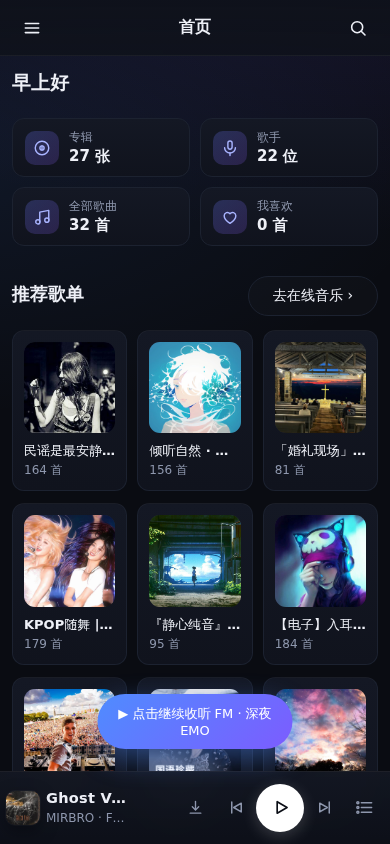
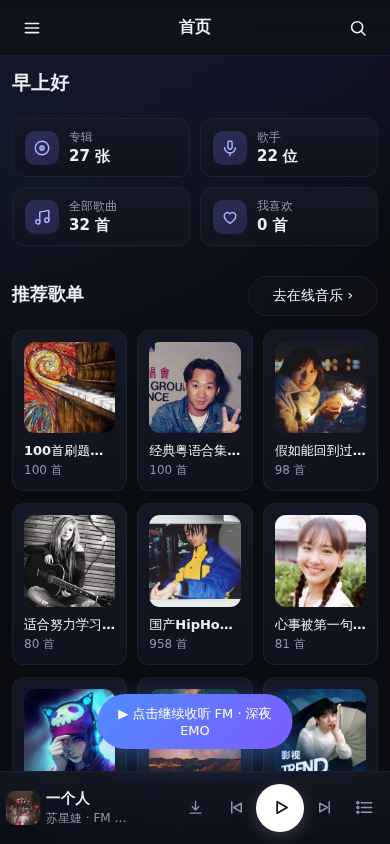
fix(ui): FM 频道卡去掉头像，改纯文字
主人 2026-09-15 反馈「各频道头像是空白的」。取证结论：不是图片代理也不是 CORS
的锅——上游 feed/mode 给的 pic 本身就是空白图。直连上游与经 /web/media/pic 代理
都是 200 + image/jpeg + 约 2.1KB；抽 5 个频道解码后均为 300×300、最暗像素 253/255
（整图近纯白）。原 PNG 带透明通道，被上游 `~tplv-…resize:300:300.jpg` 这条图片
处理参数压成了白底，落到深色卡片上就是一块白方块。

- ui/app/assets/app.js：fmCard 不再渲染 .fm-ic 头像，随之删除 FM_ICON 常量；
  在函数头注释里留档取证结论（含「不是代理挂了」这一条），避免以后有人觉得
  卡片太素又把 pic 加回来。
- ui/app/assets/app.css：删掉 .fm-ic / .fm-ic img / .fm-ic svg 三条规则；补
  .fm-card.on .fm-nm { padding-right: 54px }——「播放中」角标绝对定位在右上角，
  频道名从「图标下方第二行」变成第一行后要给它让位。实测 320px 下标题内容宽
  65px、文字右缘 52px < 角标左缘 100px，最长频道名「Chill 放松」仍在同一行。
- tools/e2e-fm.py：补一条防回退断言「频道卡为纯文字（不含头像）」，
  谁再把头像加回来测试会报红。

验证：tools/e2e-fm.py 46 通过 / 0 失败（原 45 条 + 新增 1 条）。

diff --git a/ui/app/assets/app.js b/ui/app/assets/app.js
@@ -2818,7 +2818,6 @@ kuwo.cn/playlist_detail/280301309</pre>
   // ---------------- FM 电台（汽水「听歌模式」→ 自动续播频道） ----------------
   // 频道来自汽水 /luna/pc/feed/mode（45 个听歌模式，服务端实时拉取并缓存 1h）；
   // 每个频道的曲目由服务端按「频道名 + 配方词」从汽水歌单/搜索合成，仅保留免登录可播的免费全曲。
-  const FM_ICON = '<svg viewBox="0 0 24 24"><circle cx="12" cy="12" r="2.4"/><path d="M8.1 8.1a5.5 5.5 0 0 0 0 7.8M15.9 8.1a5.5 5.5 0 0 1 0 7.8"/><path d="M5.2 5.2a9.6 9.6 0 0 0 0 13.6M18.8 5.2a9.6 9.6 0 0 1 0 13.6"/></svg>'
   let fmChannelsCache = []
 
   const fmAutoOn = () => localStorage.getItem('gusi-fm-auto') !== '0'
@@ -2854,19 +2853,16 @@ kuwo.cn/playlist_detail/280301309</pre>
     }
   }
 
+  /**
+   * 频道卡 = 纯文字（主人 2026-09-15 决定去掉头像）。
+   * 上游 feed/mode 确实给了 pic，但那是**近纯白图**：实测 300×300、最暗像素 253/255、
+   * 约 2.1KB —— 原始 PNG 带透明通道，被 `~tplv-…resize:300:300.jpg` 这条图片处理参数
+   * 压成了白底，深色卡片上就是一块白方块（不是代理挂了、也不是 CORS，直连上游同样是白的）。
+   * 所以这里不渲染头像；哪天觉得卡片太素，先换内容源，别把 pic 加回来。
+   */
   function fmCard(ch) {
     const c = el('div', 'fm-card')
     c.dataset.key = ch.key
-    const ic = el('div', 'fm-ic')
-    if (ch.pic) {
-      const img = document.createElement('img')
-      img.src = picProxy(ch.pic) || ''
-      img.alt = ''
-      img.loading = 'lazy'
-      img.onerror = () => { ic.innerHTML = FM_ICON }
-      ic.appendChild(img)
-    } else ic.innerHTML = FM_ICON
-    c.appendChild(ic)
     c.appendChild(el('div', 'fm-nm', ch.name))
     c.appendChild(el('div', 'fm-ds', ch.desc || ''))
     if (ch.playbackRate && ch.playbackRate !== 1) c.appendChild(el('span', 'fm-tag', ch.playbackRate + '× 慢放'))

diff --git a/ui/app/assets/app.css b/ui/app/assets/app.css
@@ -1106,10 +1106,9 @@ button, .icon-btn, .chip, .btn, .otab { -webkit-user-select: none; user-select: 
   transition: transform .16s, border-color .16s, box-shadow .16s; }
 .fm-card:hover { transform: translateY(-3px); border-color: #2e3648; }
 .fm-card.on { border-color: var(--accent); box-shadow: 0 0 0 1px rgba(79,140,255,.5), 0 12px 30px rgba(79,140,255,.12); }
-.fm-ic { width: 38px; height: 38px; border-radius: 11px; overflow: hidden; display: flex; align-items: center;
-  justify-content: center; background: rgba(255,255,255,.05); border: 1px solid var(--line-soft); margin-bottom: 4px; }
-.fm-ic img { width: 100%; height: 100%; object-fit: cover; }
-.fm-ic svg { width: 20px; height: 20px; opacity: .6; }
+/* 频道卡纯文字：上游 pic 是近纯白图（原因见 app.js fmCard 注释），不再渲染头像 */
+/* 「播放中」角标绝对定位在右上角，标题改成第一行后要给它让位，否则长频道名会压到角标下 */
+.fm-card.on .fm-nm { padding-right: 54px; }
 .fm-nm { font-size: 14px; font-weight: 550; }
 .fm-ds { color: var(--muted); font-size: 11.5px; line-height: 1.45; }
 .fm-tag { align-self: flex-start; margin-top: 2px; font-size: 10.5px; padding: 2px 7px; border-radius: 8px;

diff --git a/tools/e2e-fm.py b/tools/e2e-fm.py
@@ -146,6 +146,11 @@ def ui_layer(pw):
     n = cards.count()
     check('频道数量与接口一致', n >= 40, '%d 个频道卡' % n)
     check('频道卡有名称与说明', page.locator('.fm-card .fm-nm').count() == n)
+    # 主人 2026-09-15 决定：频道卡转纯文字。上游 pic 是 300×300 近纯白图（最暗 253/255），
+    # 深色卡片上只是块白方块，所以头像整体去掉；这条断言防止以后有人又把它加回来。
+    check('频道卡为纯文字（不含头像）',
+          page.locator('.fm-card .fm-ic, .fm-card img').count() == 0,
+          '头像节点 %d 个' % page.locator('.fm-card .fm-ic, .fm-card img').count())
     check('沉浸 0.8x 频道带「慢放」标签', page.locator('.fm-card .fm-tag').count() >= 1,
           '%d 个标签' % page.locator('.fm-card .fm-tag').count())
     page.screenshot(path=os.path.join(SHOT_DIR, 'fm-channels.png'))
